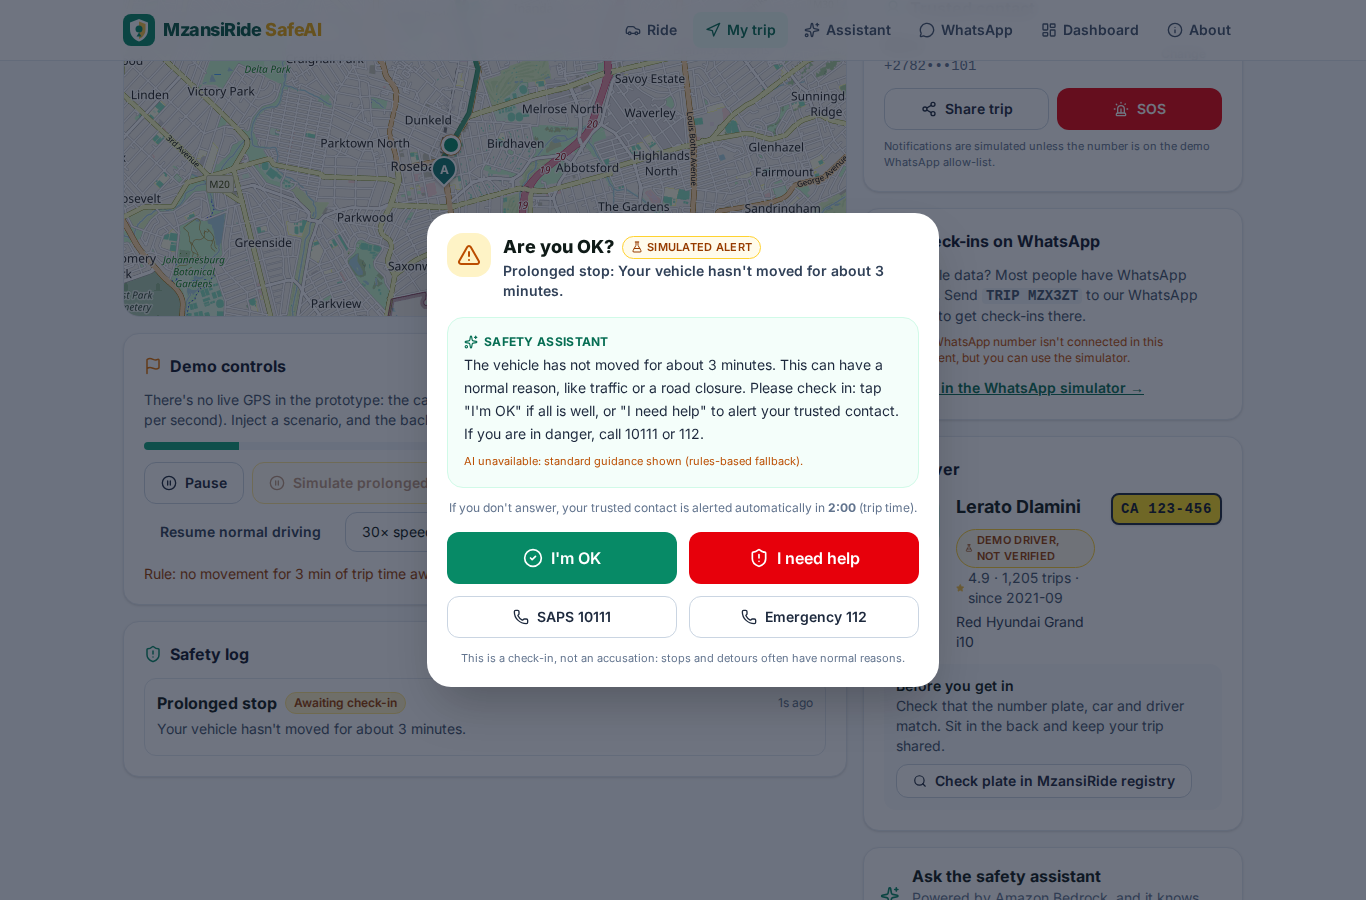
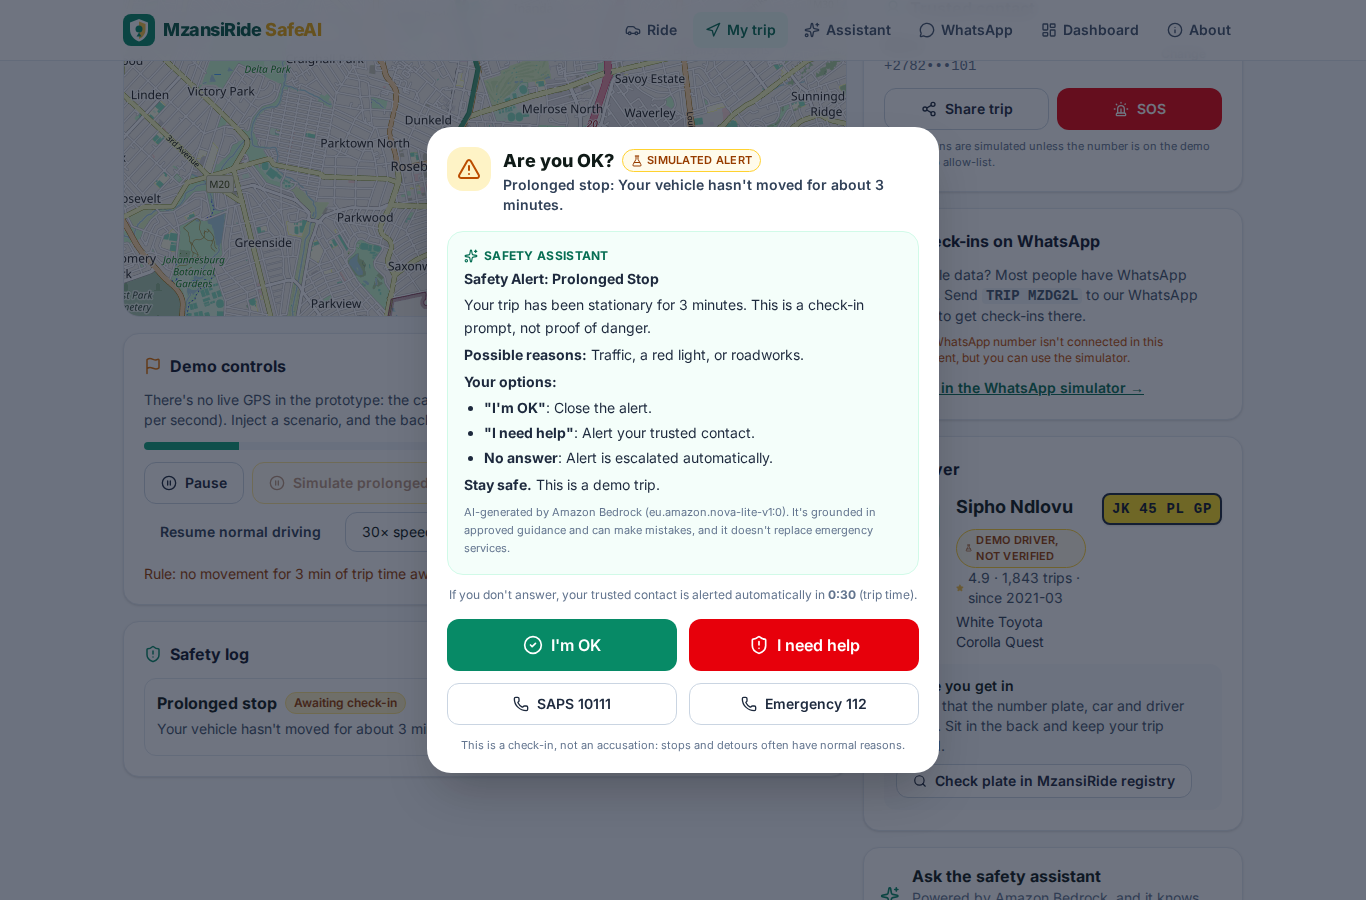
First AWS deploy: own state bucket, Claude Haiku 5.5 with Nova Lite fallback
- Anthropic models are blocked while AWS verifies the account; the assistant now
  retries a refused model with MODEL_FALLBACK_ID (Amazon Nova Lite).
- RekogNail's state bucket is gone; scripts/bootstrap_state.sh creates mzansiride-tfstate.
- Screenshots refreshed from the live site.

diff --git a/src/core/assistant.py b/src/core/assistant.py
@@ -3,6 +3,7 @@
 - The rules engine decides THAT something happened, and the model only explains it and lists the options.
 - The model is grounded in guidance.md ("approved information") via the system prompt.
 - Optional Bedrock Guardrail (GUARDRAIL_ID / GUARDRAIL_VERSION env) filters harmful content.
+- If the primary model is refused (e.g. model access not granted yet), MODEL_FALLBACK_ID (Amazon Nova) is tried.
 - If Bedrock is unavailable, a deterministic fallback text is returned and labelled as such,
   so the safety workflow never depends on the AI being up.
 """
@@ -14,7 +15,10 @@ from . import rules
 from .log import log
 
 GUIDANCE = (Path(__file__).parent / "guidance.md").read_text()
-MODEL_ID = os.environ.get("MODEL_ID", "eu.anthropic.claude-haiku-4-5-20251001-v1:0")
+MODEL_ID = os.environ.get("MODEL_ID", "eu.anthropic.claude-haiku-5-5")
+MODEL_FALLBACK_ID = os.environ.get("MODEL_FALLBACK_ID", "eu.amazon.nova-lite-v1:0")
+# Errors that mean "this model can't be used here", not "Bedrock is down": try the fallback model.
+_MODEL_REFUSED = {"AccessDeniedException", "ResourceNotFoundException", "ValidationException"}
 MAX_TOKENS = int(os.environ.get("MAX_TOKENS", "500"))
 
 SYSTEM_PROMPT = f"""You are the MzansiRide SafeAI safety assistant inside a ride-sharing prototype for South Africa.
@@ -69,8 +73,20 @@ def _trip_context(trip):
 
 
 def _converse(messages, channel):
+    models = [m for m in (MODEL_ID, MODEL_FALLBACK_ID) if m]
+    for i, model in enumerate(models):
+        try:
+            return _converse_with(model, messages, channel)
+        except Exception as e:
+            code = getattr(e, "response", {}).get("Error", {}).get("Code")
+            if i == len(models) - 1 or code not in _MODEL_REFUSED:
+                raise
+            log("WARN", "bedrock_model_refused", model=model, code=code, error=str(e)[:200])
+
+
+def _converse_with(model, messages, channel):
     kwargs = {
-        "modelId": MODEL_ID,
+        "modelId": model,
         "system": [{"text": SYSTEM_PROMPT}, {"text": CHANNEL_STYLE.get(channel, CHANNEL_STYLE["web"])}],
         "messages": messages,
         "inferenceConfig": {"maxTokens": MAX_TOKENS, "temperature": 0.2},
@@ -84,11 +100,11 @@ def _converse(messages, channel):
     resp = _bedrock().converse(**kwargs)
     text = "".join(c.get("text", "") for c in resp["output"]["message"]["content"]).strip()
     usage = resp.get("usage", {})
-    log("INFO", "bedrock", model=MODEL_ID, channel=channel, stop=resp.get("stopReason"),
+    log("INFO", "bedrock", model=model, channel=channel, stop=resp.get("stopReason"),
         ms=round((time.time() - started) * 1000), in_tokens=usage.get("inputTokens"),
         out_tokens=usage.get("outputTokens"))
     source = "guardrail" if resp.get("stopReason") == "guardrail_intervened" else "bedrock"
-    return {"text": text, "source": source, "model": MODEL_ID}
+    return {"text": text, "source": source, "model": model}
 
 
 def fallback_explanation(event):

diff --git a/tests/test_assistant.py b/tests/test_assistant.py
@@ -1,0 +1,41 @@
+from botocore.exceptions import ClientError
+
+from core import assistant
+
+
+class FakeBedrock:
+    def __init__(self, refuse):
+        self.refuse, self.models = refuse, []
+
+    def converse(self, **kw):
+        self.models.append(kw["modelId"])
+        if kw["modelId"] in self.refuse:
+            raise ClientError({"Error": {"Code": self.refuse[kw["modelId"]], "Message": "no"}}, "Converse")
+        return {"output": {"message": {"content": [{"text": "hello"}]}}, "stopReason": "end_turn", "usage": {}}
+
+
+def use(monkeypatch, refuse):
+    fake = FakeBedrock(refuse)
+    monkeypatch.setattr(assistant, "_client", fake)
+    monkeypatch.setattr(assistant, "MODEL_ID", "primary")
+    monkeypatch.setattr(assistant, "MODEL_FALLBACK_ID", "backup")
+    return fake
+
+
+def test_primary_model_used_when_available(monkeypatch):
+    fake = use(monkeypatch, {})
+    assert assistant.chat("hi") == {"text": "hello", "source": "bedrock", "model": "primary"}
+    assert fake.models == ["primary"]
+
+
+def test_refused_model_falls_back_to_second_model(monkeypatch):
+    fake = use(monkeypatch, {"primary": "AccessDeniedException"})
+    assert assistant.chat("hi")["model"] == "backup"
+    assert fake.models == ["primary", "backup"]
+
+
+def test_outage_uses_rules_text_without_trying_second_model(monkeypatch):
+    fake = use(monkeypatch, {"primary": "ServiceUnavailableException"})
+    out = assistant.chat("hi")
+    assert out["source"] == "fallback" and "10111" in out["text"]
+    assert fake.models == ["primary"]

diff --git a/docs/aws-services-qa.md b/docs/aws-services-qa.md
@@ -14,7 +14,7 @@ Read this together before Monday. Every service below answers four questions: **
 ---
 
 ## Amazon Bedrock (+ Guardrails)
-- **What:** `Converse` API call to Anthropic Claude (Haiku-class EU cross-region inference profile). Two uses: explain an alert, and answer chat questions (web + WhatsApp). The system prompt contains our approved guidance (`src/core/guidance.md`) and strict rules (no blame, no crime prediction, always 10111/112).
+- **What:** `Converse` API call to **Claude Haiku 5.5** (EU cross-region inference profile `eu.anthropic.claude-haiku-5-5`), with **Amazon Nova Lite** as an automatic second model if Claude is refused (for example, model access not yet granted). Two uses: explain an alert, and answer chat questions (web + WhatsApp). The system prompt contains our approved guidance (`src/core/guidance.md`) and strict rules (no blame, no crime prediction, always 10111/112).
 - **Why:** fully managed, so there are no GPU servers. It's pay-per-token, the data isn't used to train models, IAM controls access, and Guardrails are built in. Haiku-class models answer in 1–3 s and cost fractions of a cent.
 - **Cost:** about 2.5k input + 200 output tokens per call, roughly **$0.003–0.004 per explanation**. 1,000 alerts ≈ $4. We cache each explanation on the event so re-opening doesn't bill twice.
 - **Limits:** the model can be wrong, and it only knows the guidance we give it. Bedrock isn't in **af-south-1** (Cape Town), so we run in **eu-west-1** and accept about 170 ms of extra latency. Data leaves SA, which matters for **POPIA** in production (cross-border transfer rules).
@@ -86,7 +86,8 @@ Read this together before Monday. Every service below answers four questions: **
 14. **"Why two Lambdas?"** Different triggers and permissions: only the WhatsApp function can read gateway secrets. And WhatsApp must acknowledge within 10 s, so it processes asynchronously. They share the same `core` code, so behaviour is identical.
 15. **"What happens if Bedrock is down or throttled?"** Boto3 retries, then the fallback text, labelled in the UI. Alerts, check-ins and escalation are unaffected.
 16. **"Why not detect deviations with real maps?"** That's out of scope for the prototype (proposal §8.2). We use real OSM road geometry and point-to-polyline distance. With Amazon Location Service we'd recompute routes when the driver legitimately re-routes, which also reduces false alarms.
-17. **"How did you test it?"** 39 unit tests (rules: no false alarm on a normal trip, short stops ignored, waiting at pickup ignored, latching; fares; driver lookup; webhook signature and dedupe; the full API journey with DynamoDB mocked by moto) plus Playwright end-to-end tests of the real UI. CI runs them on every push.
+17. **"How did you test it?"** 42 unit tests (rules: no false alarm on a normal trip, short stops ignored, waiting at pickup ignored, latching; fares; driver lookup; AI model fallback; webhook signature and dedupe; the full API journey with DynamoDB mocked by moto) plus Playwright end-to-end tests of the real UI. CI runs them on every push.
 18. **"What would you do with another week?"** Cognito accounts, live GPS with Amazon Location Service, a multilingual assistant, the official WhatsApp API, an AI evaluation suite, and a pilot with a student transport operator.
 19. **"Who did what?"** Answer honestly and together. Both of you should be able to walk the diagram and the demo (that's why this doc exists).
 20. **"Could you have used Amazon Lex or Amazon Connect?"** Lex suits structured intents (we have a few commands). Free-text safety questions suit an LLM better. Connect would add voice/USSD-style access for feature phones, which is a good future channel.
+21. **"Why two AI models?"** Claude Haiku 5.5 is the main model: fast, cheap and good at calm, careful wording. If Bedrock refuses it (for example while Anthropic model access is still being approved for the account), the same request goes to Amazon Nova Lite, an Amazon-owned model that needs no extra approval. Same prompt, same Guardrail. If Bedrock is down entirely, the app shows the rules-based message instead. The response records which model answered, and the logs show it too.

diff --git a/README.md b/README.md
@@ -24,7 +24,7 @@ WhatsApp bundles but no mobile data. A shared-ride fare comparison shows how sha
 | **Amazon API Gateway (HTTP API)** | `ANY /api/{proxy+}` → `api` Lambda. `POST /whatsapp/webhook` → `whatsapp` Lambda. Throttled to 25 rps (burst 50). |
 | **AWS Lambda `api`** (Python 3.13, arm64) | Trips, **safety rules engine**, check-ins, escalation, trusted-contact notifications, assistant, dashboard. |
 | **AWS Lambda `whatsapp`** | Verifies the OpenWA HMAC signature, deduplicates, and acknowledges at once. It then processes asynchronously (it invokes itself) and replies through OpenWA. |
-| **Amazon Bedrock** (Anthropic Claude, EU inference profile) | Explains alerts and answers safety questions (Converse API), grounded in [`src/core/guidance.md`](src/core/guidance.md). |
+| **Amazon Bedrock** (Claude Haiku 5.5, EU inference profile; Amazon Nova Lite as fallback model) | Explains alerts and answers safety questions (Converse API), grounded in [`src/core/guidance.md`](src/core/guidance.md). If Claude is refused (e.g. model access not granted), Nova Lite answers instead. |
 | **Amazon Bedrock Guardrails** | Content filters + prompt-attack filter + a denied topic: *criminal profiling of drivers*. The violence filter is off **for input** so that a passenger describing a threat is never blocked. |
 | **Amazon DynamoDB** | `trips`, `events` (check-ins, notifications), `drivers` (demo registry, seeded by Terraform), `whatsapp` (chat↔trip links, webhook dedupe, simulator outbox). On-demand, 14-day TTL. |
 | **Amazon EC2 + OpenWA** | Self-hosted WhatsApp gateway ([rmyndharis/OpenWA](https://github.com/rmyndharis/OpenWA), MIT). Caddy provides TLS and exposes **only** `send-text` and `health`. Admin goes through SSM Run Command (no SSH, no public dashboard). |
@@ -64,10 +64,10 @@ Prereqs: Terraform ≥ 1.10, Python 3.12+ with `uv`, Node 22+, AWS CLI v2 logged
 
 ```bash
 make setup        # .venv + web deps
-make test         # 39 backend tests + typecheck + lint
+make test         # 42 backend tests + typecheck + lint
 make local        # full app on http://localhost:8077, in-memory DB, offline AI fallback (= backup demo)
 make local-ai     # same with real Bedrock
-make init         # terraform init (state: same S3 bucket as RekogNail, key mzansiride/)
+make init         # terraform init (state bucket: ./scripts/bootstrap_state.sh, once per account)
 make deploy       # tests → terraform plan → apply that plan → upload SPA → invalidate
 make url; make code
 make e2e          # Playwright journey (E2E_URL=$(make url) TEAM_CODE=$(make code) make e2e for the live site)
@@ -79,7 +79,7 @@ Optional `infra/terraform.tfvars` (git-ignored):
 wa_number    = "+27 82 000 0000"             # the number linked to OpenWA (shown in the app)
 wa_allowlist = ["+27820000001", "+27820000002"] # teammates: may receive trusted-contact alerts
 budget_email = "you@example.com"
-model_id     = "eu.anthropic.claude-haiku-4-5-20251001-v1:0"
+model_id     = "eu.anthropic.claude-haiku-5-5"
 ```
 
 ### WhatsApp (OpenWA) one-time setup

diff --git a/docs/presentation-notes.md b/docs/presentation-notes.md
@@ -59,7 +59,7 @@ Quick tour (or fold into the demo): **Ride** (booking + fare comparison) → **T
 ## 5. AI integration (A, 1:15)
 - **What it does:** explains each alert in calm, plain language, lists the passenger's options, and answers safety questions in the app or on WhatsApp.
 - **Why AI:** a stressed passenger needs a clear, contextual explanation (trip, driver, how long the stop has lasted) in seconds, not a policy document. The AI also handles free-text questions like "the driver is asking for extra cash".
-- **Which service:** Amazon Bedrock with Anthropic Claude (Haiku-class: fast and cheap) via the Converse API, plus **Bedrock Guardrails**.
+- **Which service:** Amazon Bedrock with **Claude Haiku 5.5** (fast and cheap) via the Converse API, plus **Bedrock Guardrails**. If Claude can't be used, **Amazon Nova Lite** answers instead; if Bedrock is down entirely, a rules-based message.
 - **How it's kept responsible:**
   - It's grounded in an **approved guidance file**: SA emergency numbers, what alerts mean, check-in options. It's told never to invent numbers.
   - **Detection is rule-based.** The AI can't create or cancel an alert.
@@ -133,7 +133,7 @@ Show the **About** page list. Say it plainly:
 - [ ] Main user journey demonstrated
 - [ ] AI demonstrated, with its limits explained
 - [ ] AWS services and their purpose identified
-- [ ] Features tested (39 unit tests + Playwright e2e)
+- [ ] Features tested (42 unit tests + Playwright e2e)
 - [ ] Completed / simulated / outstanding clearly identified (About page, README)
 - [ ] Remaining work documented (section 8)
 - [ ] Backup demo ready (`make local`, screenshots)

diff --git a/CLAUDE.md b/CLAUDE.md
@@ -21,7 +21,7 @@ Deploying = pushing to `main` (`.github/workflows/deploy.yml`, OIDC role `github
 - **Notifications:** `core/notify.py`. Real WhatsApp sends only via an async invoke of the whatsapp Lambda, and only to linked chats or `WA_ALLOWLIST`. Everything else is recorded as `simulated`.
 - **OpenWA** (`infra/openwa.tf`, `openwa/user_data.sh.tftpl`): Caddy exposes only `send-text` and `health`. Secrets are in SSM `/mzansiride/openwa/*` (`api_key` is written by the instance on first boot, `session_id` by `scripts/openwa.sh setup`). Webhook HMAC is `X-OpenWA-Signature: sha256=<hex>`. The instance ignores AMI changes so the WhatsApp login isn't lost.
 - **Frontend:** Vite + React 19 + Tailwind v4 (component classes are `@utility` in `index.css`). It talks to `/api` same-origin through CloudFront, and a CloudFront Function does the SPA rewrite. `routes.json` (OSM routes between 6 Joburg places) is the single source for maps and fares.
-- **Terraform state** is shared with RekogNail's bucket (`infra/backend.hcl`, key `mzansiride/`). Don't touch the `smartthumb-*` resources.
+- **Terraform state** is in `mzansiride-tfstate-<account>-eu-west-1` (`scripts/bootstrap_state.sh` writes `infra/backend.hcl`). Same AWS account as RekogNail, whose stack has been torn down.
 
 ## Gotchas
 - Lambda concurrency in this account is 10: don't add reserved concurrency.
